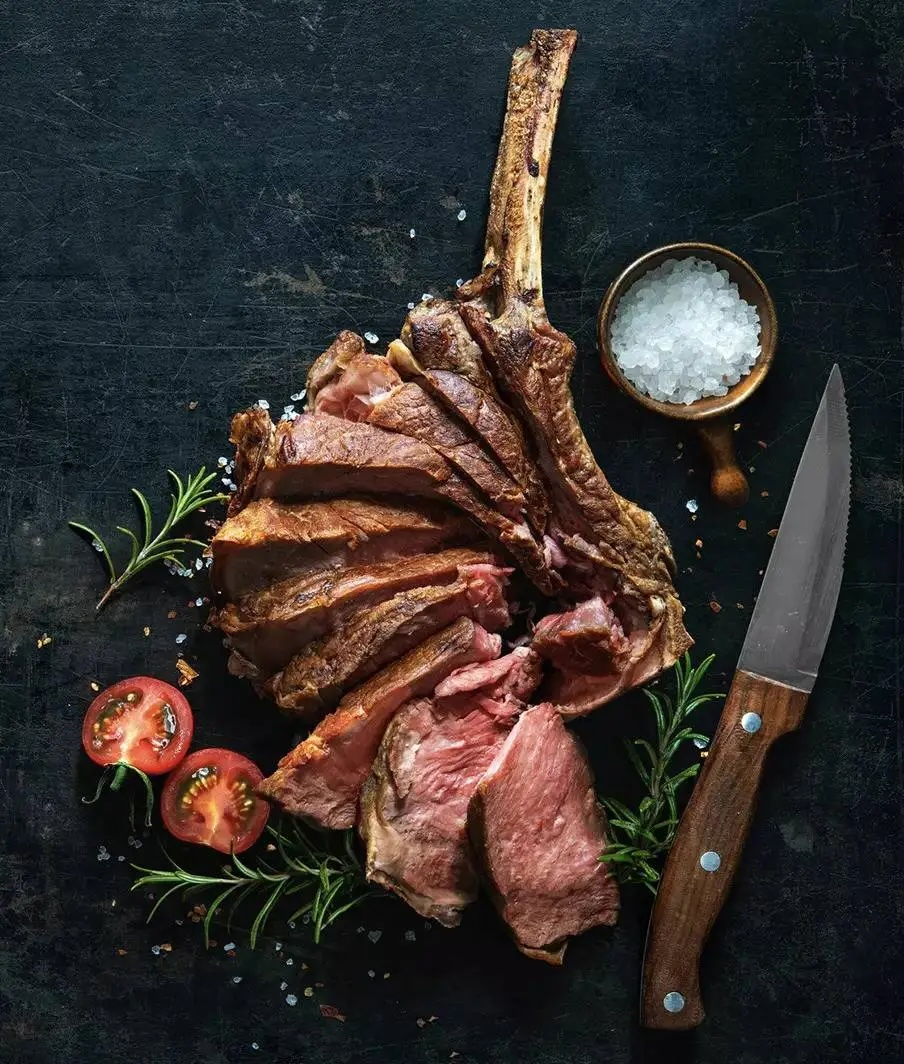
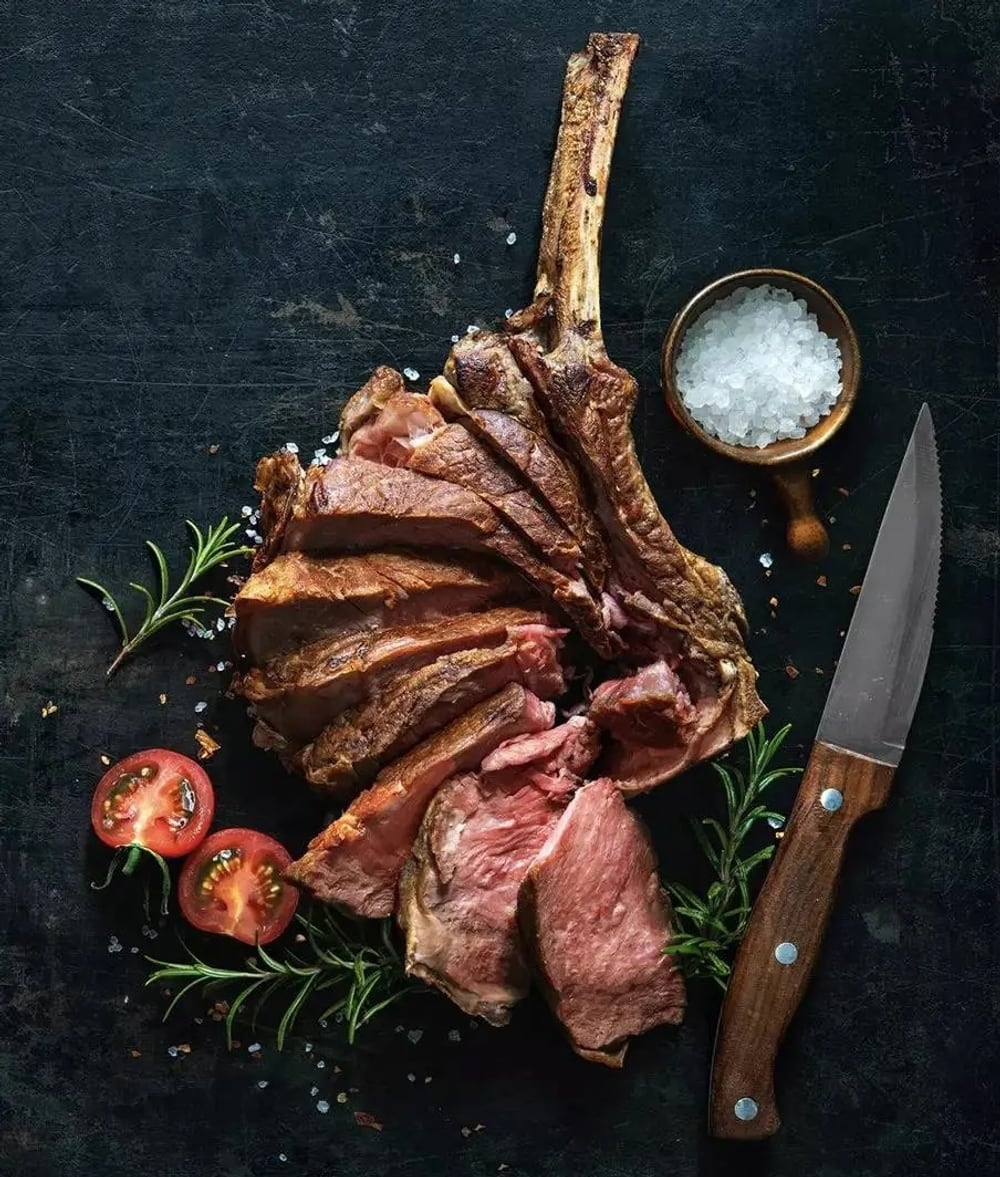
Deux rideaux de plus, et chacun avec ses mots
« AU PLAT » ET « SERVI » NE VONT PAS PARTOUT, et c'était écrit noir sur blanc
dans la liste des secondes photos avant même qu'on en ait une : « attention au
mot, ce n'est pas servi, rien n'est servi chez un boucher ». Les étiquettes du
rideau se posent donc par temps. Le traiteur dit « Au plat » puis « Votre
part » ; la boucherie dit « À l'étal » puis « Chez vous », parce que ce qu'elle
vend est cru et que ce qu'on en fait est un RÉSULTAT, pas une livraison.

LE PARMENTIER A DÛ ÊTRE RECADRÉ, ET LE DÉFAUT ÉTAIT INVISIBLE DANS LE FICHIER.
La photo montre le plat entier ET une assiette servie avec sa fourchette ; le
cadre en 4/3 gardait le plat et coupait justement la part. L'étiquette disait
donc « Votre part » sous une photo de plat entier. Recadrée sur l'assiette, elle
montre le confit effiloché sous la croûte — exactement ce que la phrase du temps
promet : « effiloché à la main, c'est pour ça qu'il tient à la cuillère ».

Trois rideaux en place sur sept parcours, et les quatre autres gardent leur
image simple — mesuré au navigateur, aucun repli, aucune étiquette tronquée.
Contraste des étiquettes relevé dans le pire cas : 5,46 pour un seuil à 4,50.

ET QUATRE DES SIX PHOTOS LIVRÉES SONT À REFAIRE. Le LISEZ-MOI en garde le
détail et la raison, parce que le piège se répète : on cherche une belle photo
du plat, on retrouve une photo de CUISSON. Le mot qui trie est « assiette » —
si le sujet principal est une cocotte, une marmite ou un plat à four, c'est un
[…]

diff --git a/src/lib/direct/avant-gout.ts b/src/lib/direct/avant-gout.ts
@@ -120,6 +120,19 @@ export type TempsGout = {
    * rempli, `gout-contenu.tsx` s'en sert sans qu'on touche à rien d'autre.
    */
   photoApres?: string;
+  /**
+   * ═══ CE QUE DISENT LES DEUX CÔTÉS DU RIDEAU ═══════════════════════════════
+   *
+   * « AU PLAT » ET « SERVI » NE VONT PAS PARTOUT, et c'était écrit noir sur
+   * blanc dans la liste des secondes photos avant même qu'on en ait une :
+   * « attention au mot, ce n'est pas "servi", rien n'est servi chez un
+   * boucher ». Une côte de bœuf est CUITE, un pain est TRANCHÉ, une part de
+   * traiteur est EMPORTÉE.
+   *
+   * ABSENT, ON RETOMBE SUR « Au plat » / « Servi », qui vont aux restaurants
+   * — c'est-à-dire à la majorité.
+   */
+  rideau?: { avant: string; apres: string };
   options?: OptionGout[];
   /** Le libellé du geste qui avance. « Je valide ma réponse », « C'est parti ! ». */
   geste?: string;
@@ -564,6 +577,12 @@ export const GOUT_PARMENTIER: Gout = {
       suite: "jusqu’en bas",
       phrase: "Effiloché à la main, deux jours avant. C’est pour ça qu’il tient à la cuillère.",
       photo: "/direct/plat-parmentier.jpg",
+      /* « Effiloché à la main, c'est pour ça qu'il tient à la cuillère » : la
+         phrase promet une texture qu'on ne voit pas sur un plat entier. La
+         seconde photo montre la part sortie, le confit visible sous la croûte —
+         c'est exactement ce dont le texte parlait. */
+      photoApres: "/direct/plat-parmentier-servi.jpeg",
+      rideau: { avant: "Au plat", apres: "Votre part" },
     },
   ],
 };
@@ -695,6 +714,15 @@ export const GOUT_BILLOT: Gout = {
       suite: "mise de côté",
       phrase: "Serge la pare et la coupe à votre arrivée, pas avant.",
       photo: "/direct/etal-boucher.jpg",
+      /* ═══ ET LE MOT N'EST PAS « SERVI » ═══════════════════════════════════
+
+         RIEN N'EST SERVI CHEZ UN BOUCHER, et c'était noté dans la liste des
+         secondes photos avant même qu'on en ait une. Ce qu'il vend, c'est la
+         pièce crue ; ce que le client en fait, c'est ça. Le rideau dit donc
+         « À l'étal » puis « Chez vous » — la seconde photo montre la côte
+         cuite et tranchée, ce qui est un RÉSULTAT, pas une livraison. */
+      photoApres: "/direct/cote-boeuf-coupee.jpeg",
+      rideau: { avant: "À l’étal", apres: "Chez vous" },
       // LE GESTE FINAL EST LE SIEN, PAS CELUI D'UN RESTAURANT. « Réserver » se
       // dit d'une table ; une pièce de viande, on la fait garder — et
       // « Gardez-la-moi » est le mot que sa propre annonce emploie déjà.

diff --git a/src/components/direct/gout-contenu.tsx b/src/components/direct/gout-contenu.tsx
@@ -301,8 +301,8 @@ export function EcranGout({
               {/* eslint-disable-next-line @next/next/no-img-element */}
               <img src={t.photoApres} alt="" />
             </span>
-            <span className="go-rid-et a" aria-hidden="true">Au plat</span>
-            <span className="go-rid-et b" aria-hidden="true">Servi</span>
+            <span className="go-rid-et a" aria-hidden="true">{t.rideau?.avant ?? "Au plat"}</span>
+            <span className="go-rid-et b" aria-hidden="true">{t.rideau?.apres ?? "Servi"}</span>
             <span className="go-rid-t" aria-hidden="true">
               <i />
             </span>

diff --git a/public/direct/LISEZ-MOI.md b/public/direct/LISEZ-MOI.md
@@ -868,6 +868,23 @@ montée : c'est le rideau qui explique le principe en une seconde, sans texte.
 Les six autres se comprennent parce qu'on a compris celui-là — et la paire des
 lasagnes sert maintenant de référence pour les juger.
 
+## L'état de la liste, et les quatre qui restent à refaire
+
+| Fichier | État |
+|---|---|
+| `plat-lasagnes-servi.jpeg` | ✅ **en place** — même lasagne au jambon des deux côtés |
+| `plat-parmentier-servi.jpeg` | ✅ **en place** — recadrée sur l'assiette : le cadre gardait le plat entier et coupait justement la part |
+| `cote-boeuf-coupee.jpeg` | ✅ **en place** — la côte cuite et tranchée. Étiquettes « À l'étal » ↔ « Chez vous » : rien n'est *servi* chez un boucher |
+| `plat-axoa-servi.jpeg` | ⚠ **filigrane** « ©Papilles & Pupilles » en bas à droite. La photo est bonne — un vrai bol servi — mais elle appartient à quelqu'un. Troisième filigrane du dossier après les deux envois d'`etal-boucher.jpg` |
+| `plat-garbure-servi.jpeg` | ❌ **deux défauts** : c'est encore une cocotte et non une assiette, donc aucun contraste avec la marmite ; et une boîte de conserve porte une **marque lisible** |
+| `plat-basquaise-servi.jpg` | ❌ **encore une cocotte.** Le riz est dans un bol à côté, mais le sujet reste le plat de cuisson |
+| `tourte-entiere.jpg` | ❌ **pas le même pain** : deux pains de farine blanche avec une étiquette de papier, sur fond blanc. La tranchée est une tourte de seigle sur planche |
+
+**LE PIÈGE EST TOUJOURS LE MÊME, ET IL SE RÉPÈTE :** on cherche une belle photo
+du plat, et on retrouve une photo de CUISSON. Le mot qui trie est « assiette » :
+si le sujet principal est une cocotte, une marmite ou un plat à four, c'est un
+« avant », pas un « après » — quelle que soit sa beauté.
+
 ## Ce que la première livraison a appris
 
 **Deux paires ont été nécessaires, et l'écart entre les deux est instructif.**
